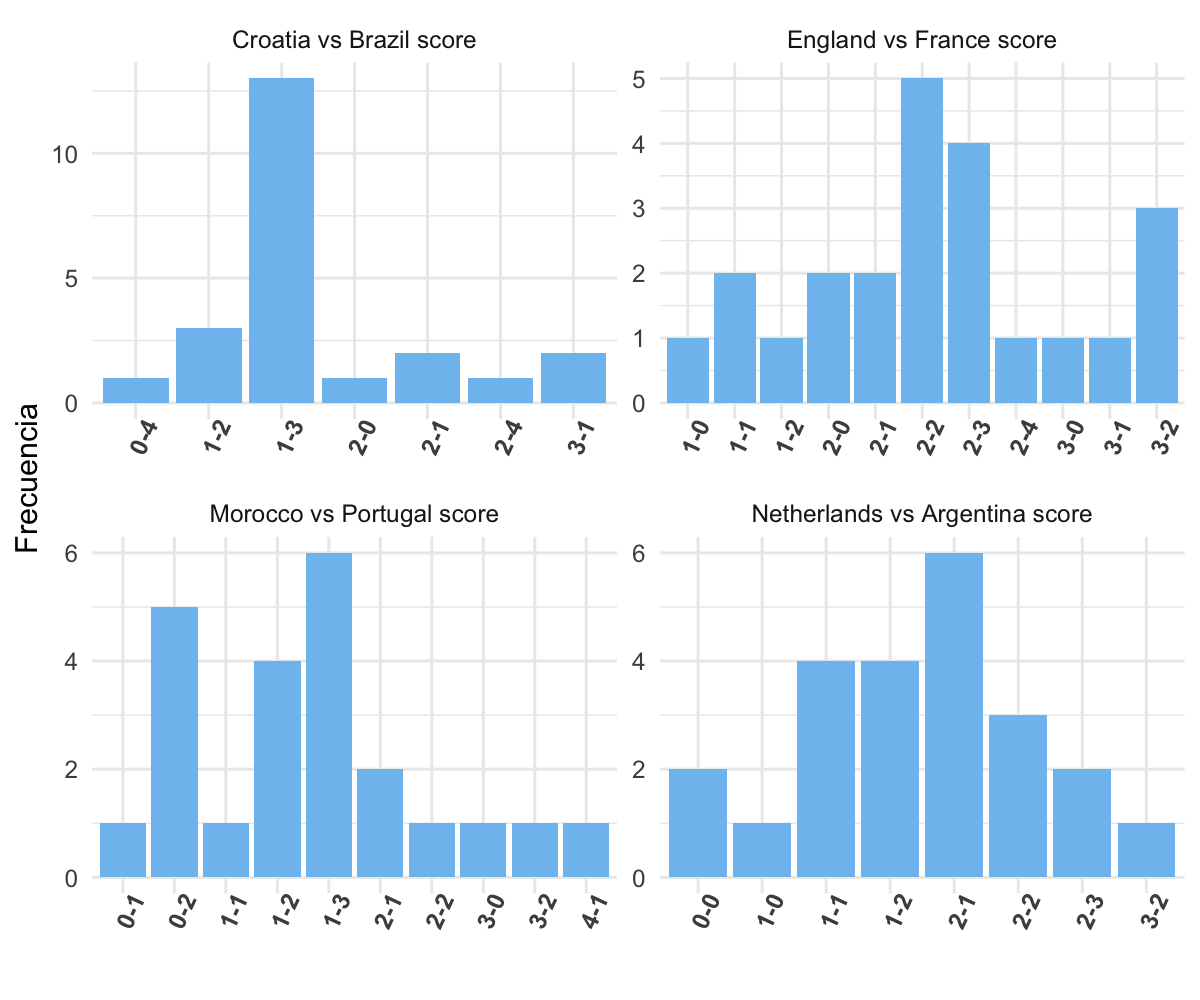
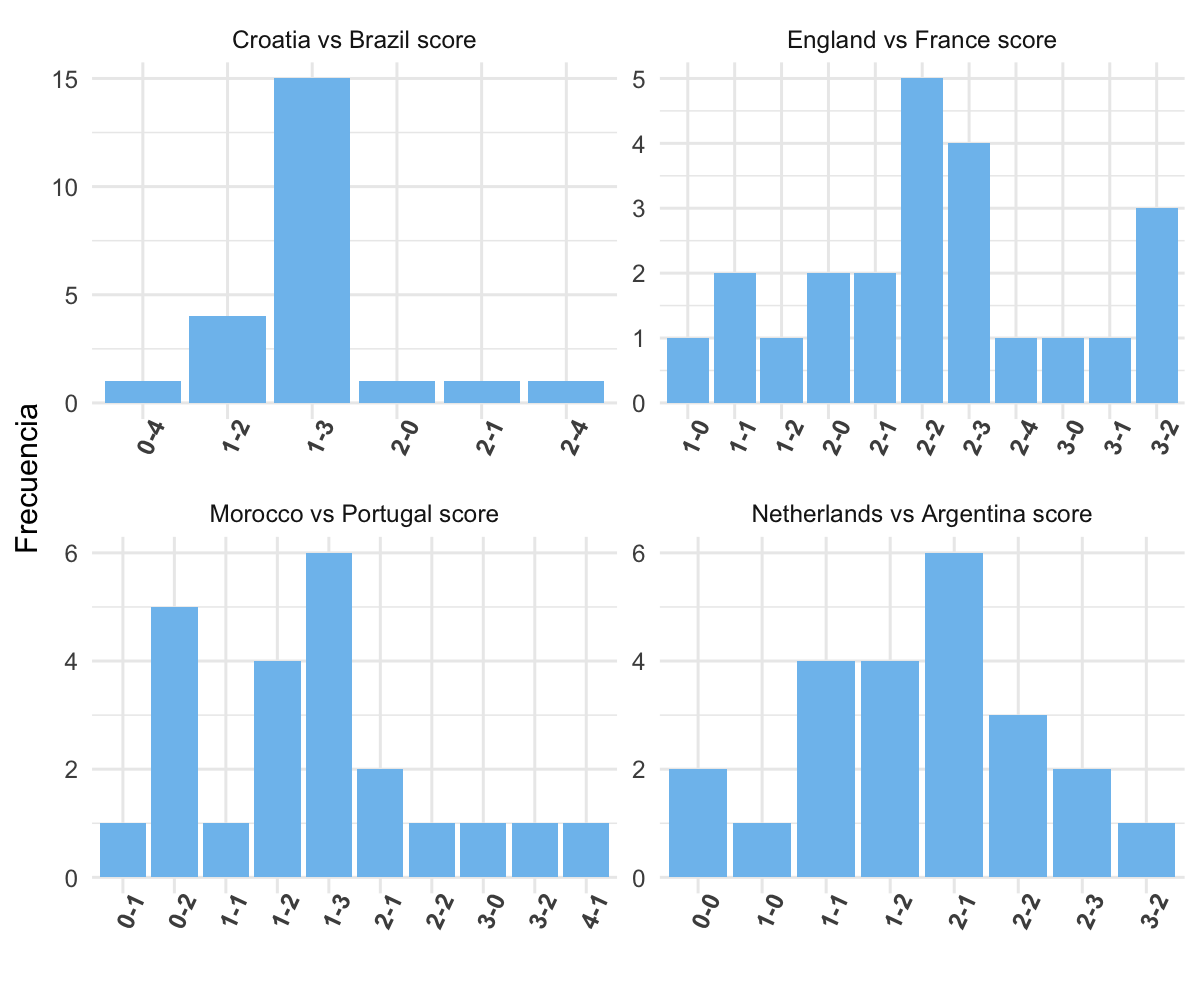
automatic README update

Changed region(s): [[0.0925, 0.062, 0.5242, 0.465], [0.0308, 0.062, 0.0617, 0.093]]

diff --git a/README.md b/README.md
@@ -13,7 +13,7 @@ Este es el repositorio de la quiniela Qatar 2022. Aqui se publicarán las picks 
 
 
 
-Última actualización: Fri  9 Dec 2022 10:44:08 EST.
+Última actualización: Fri  9 Dec 2022 10:54:06 EST.
 
 
 # **Puntuaciones**
@@ -116,7 +116,7 @@ Este es el repositorio de la quiniela Qatar 2022. Aqui se publicarán las picks 
 | 002                 | Poncho                       | 1-2                     | 2-2                            | 0-2                       | 1-1                     |
 | 003                 | Habib                        | 1-3                     | 1-1                            | 1-2                       | 2-2                     |
 | 004                 | Jalil                        | 1-3                     | 1-2                            | 0-1                       | 2-3                     |
-| 005                 | Isra Torres                  | 3-1                     | 1-1                            | 1-1                       | 2-1                     |
+| 005                 | Isra Torres                  | 1-3                     | 1-1                            | 1-1                       | 2-1                     |
 | 006                 | Juan Carlos Avendaño Aguilar | 1-2                     | 1-2                            | 1-3                       | 2-1                     |
 | 007                 | Claudio                      | 1-3                     | 2-1                            | 0-2                       | 2-3                     |
 | 008                 | Héctor Zepeda               | 0-4                     | 1-2                            | 0-2                       | 1-0                     |
@@ -132,9 +132,9 @@ Este es el repositorio de la quiniela Qatar 2022. Aqui se publicarán las picks 
 | 019                 | Diego Angeles                | 1-3                     | 1-1                            | 3-2                       | 3-0                     |
 | 020                 | Luis Llamas                  | 1-3                     | 2-2                            | 1-2                       | 3-2                     |
 | 021                 | German jair                  | 1-3                     | 2-1                            | 1-3                       | 2-3                     |
-| 022                 | Colin                        | 2-1                     | 2-1                            | 2-1                       | 2-0                     |
+| 022                 | Colin                        | 1-2                     | 2-1                            | 2-1                       | 2-0                     |
 | 023                 | Adam                         | 2-0                     | 2-1                            | 3-0                       | 2-0                     |
-| 024                 | Ahmed Felfel                 | 3-1                     | 0-0                            | 2-1                       | 3-1                     |
+| 024                 | Ahmed Felfel                 | 1-3                     | 0-0                            | 2-1                       | 3-1                     |
 
 ![](media/predicted_scores_KO4.png)
 
